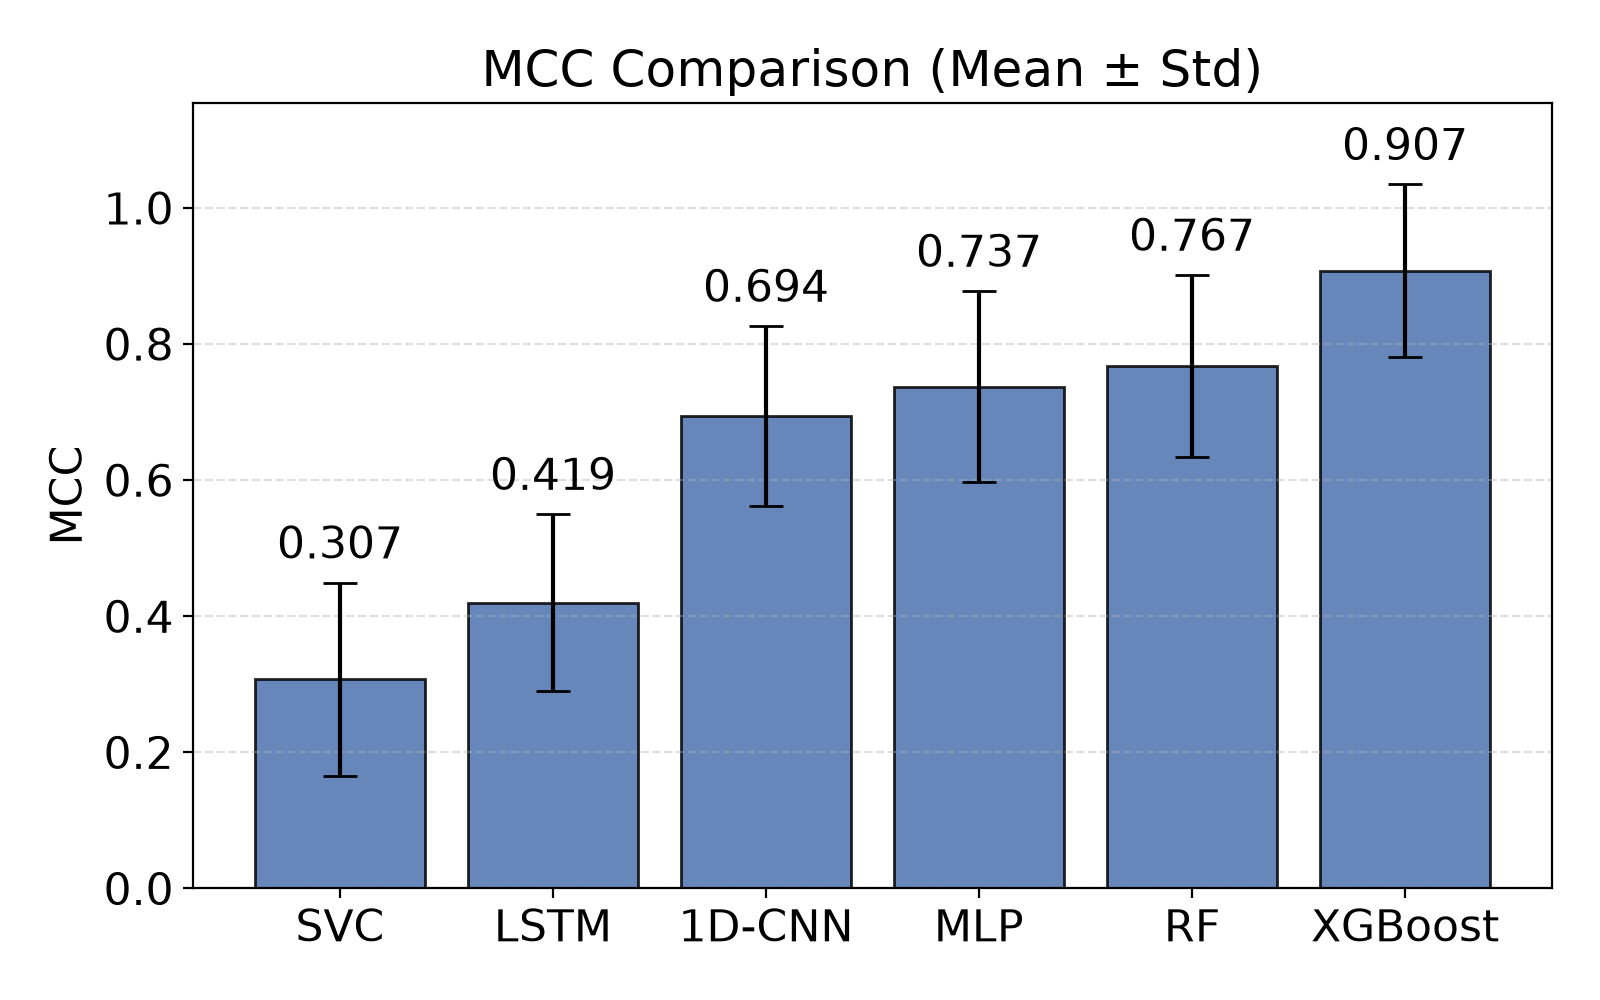
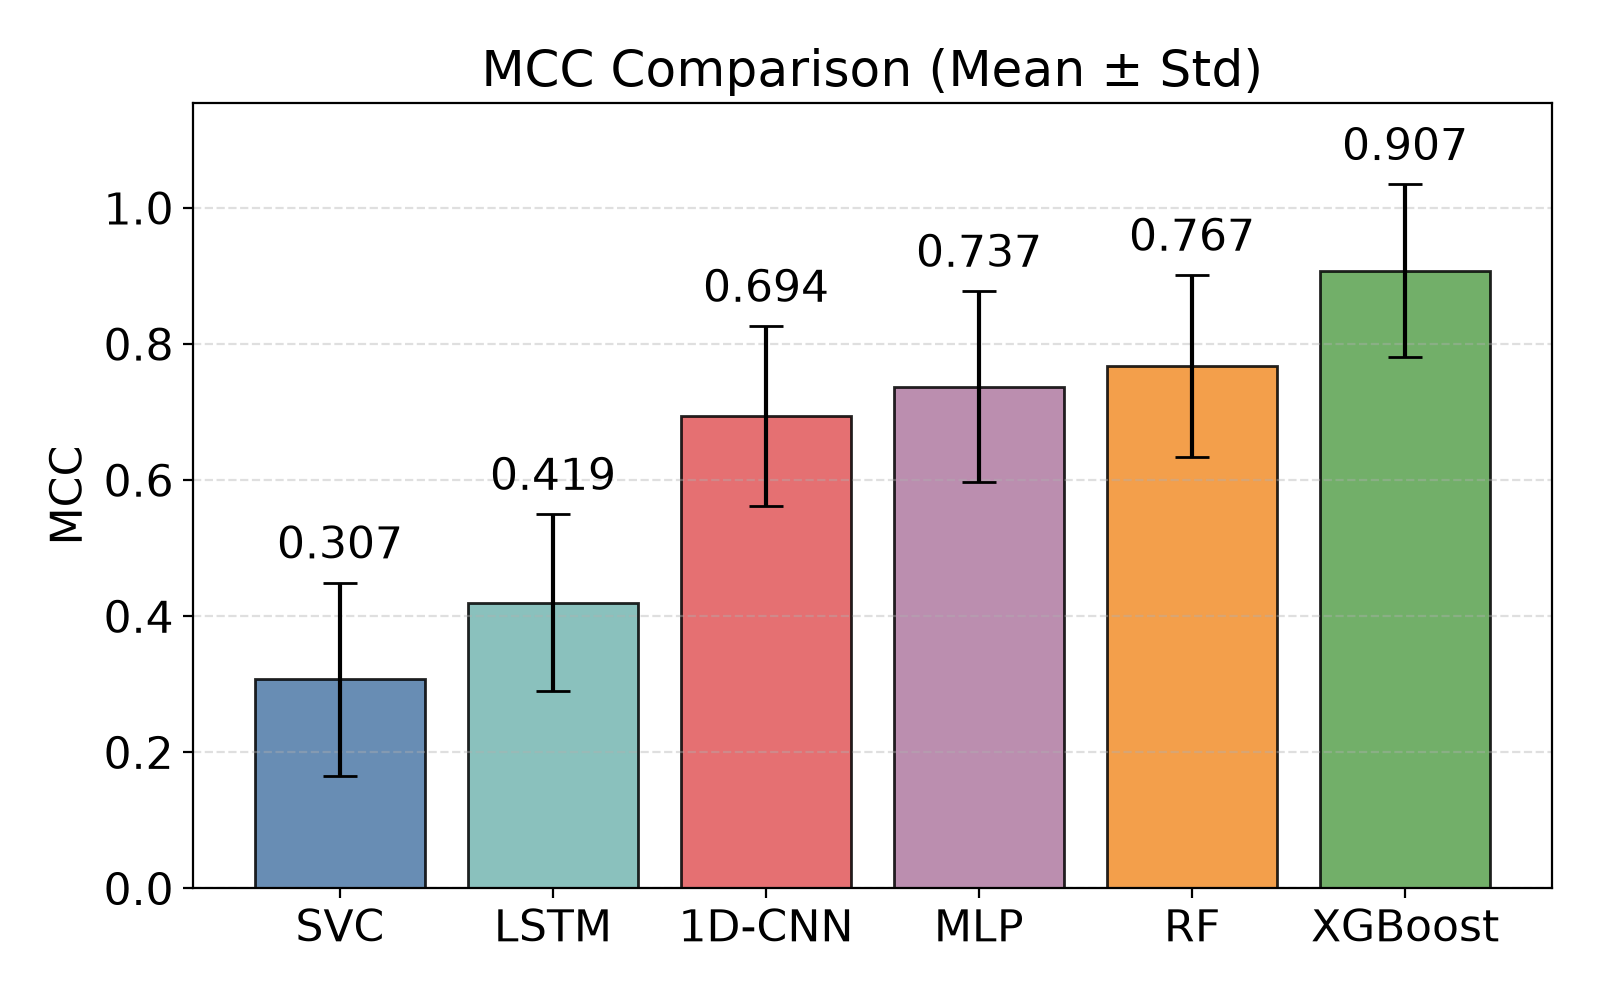
added color to graphs

Changed region(s): [[0.5625, 0.248, 0.9375, 0.899], [0.2812, 0.403, 0.5312, 0.899]]

diff --git a/src/chart_scripts/GroupStats.py b/src/chart_scripts/GroupStats.py
@@ -18,6 +18,15 @@ plt.rcParams.update({
     'ytick.labelsize': FONT_SIZE,
 })
 
+MODEL_COLORS = {
+    "SVC": "#4E79A7",
+    "RF": "#F28E2B",
+    "XGBoost": "#59A14F",
+    "1D-CNN": "#E15759",
+    "MLP": "#B07AA1",
+    "LSTM": "#76B7B2",
+}
+
 
 class GroupStats:
     """
@@ -427,6 +436,7 @@ class GroupStats:
         key = key.lower()
 
         labels = ['SVC', 'RF', 'XGBoost', '1D-CNN', 'MLP', 'LSTM']
+        colors = [MODEL_COLORS[label] for label in labels]
         means = [
             self.svc.scores[f'{key}_mean'],
             self.rf.scores[f'{key}_mean'],
@@ -447,6 +457,7 @@ class GroupStats:
         # sort ascending by mean, left to right
         order = np.argsort(means)
         labels = [labels[i] for i in order]
+        colors = [colors[i] for i in order]
         means = [means[i] for i in order]
         stds = [stds[i] for i in order]
 
@@ -457,7 +468,7 @@ class GroupStats:
             x, means,
             yerr=stds,
             capsize=6,
-            color=BLUE_COLOR,
+            color=colors,
             edgecolor='black',
             alpha=0.85,
             error_kw={'ecolor': 'black', 'elinewidth': 1.5}
